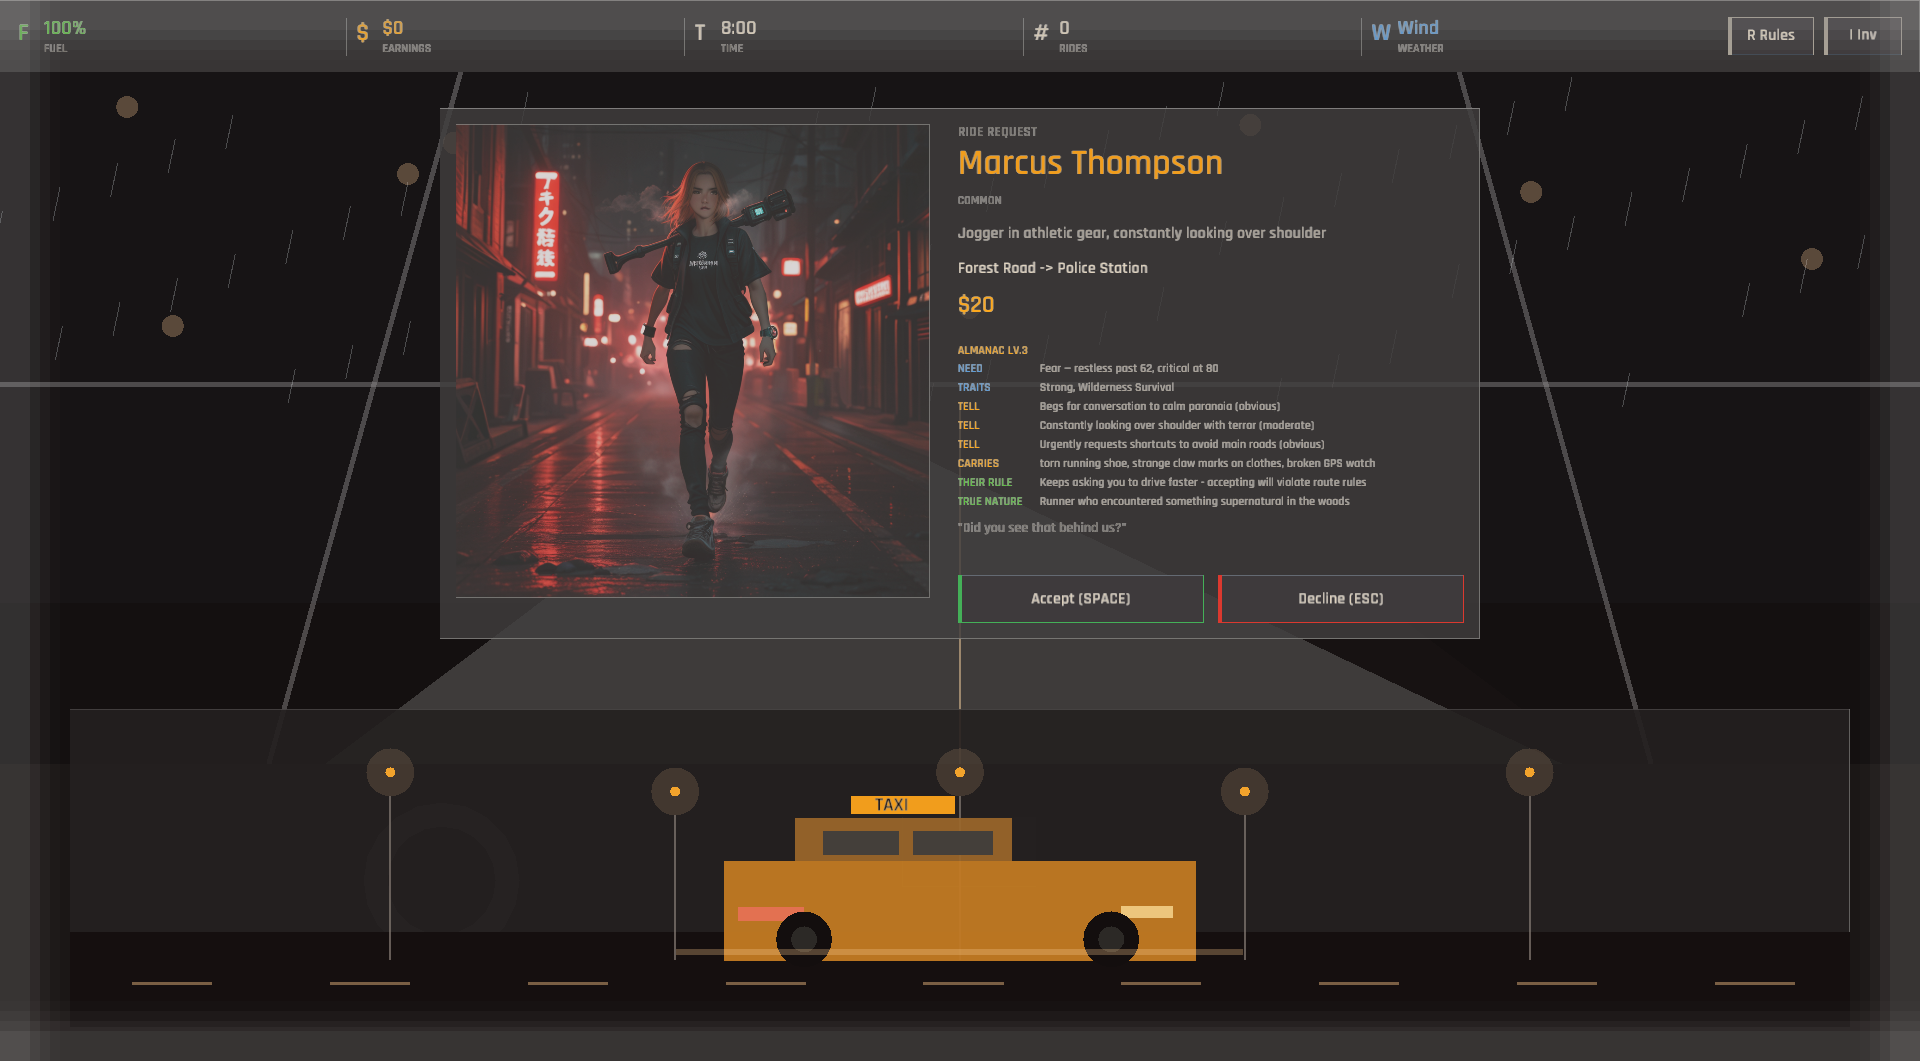
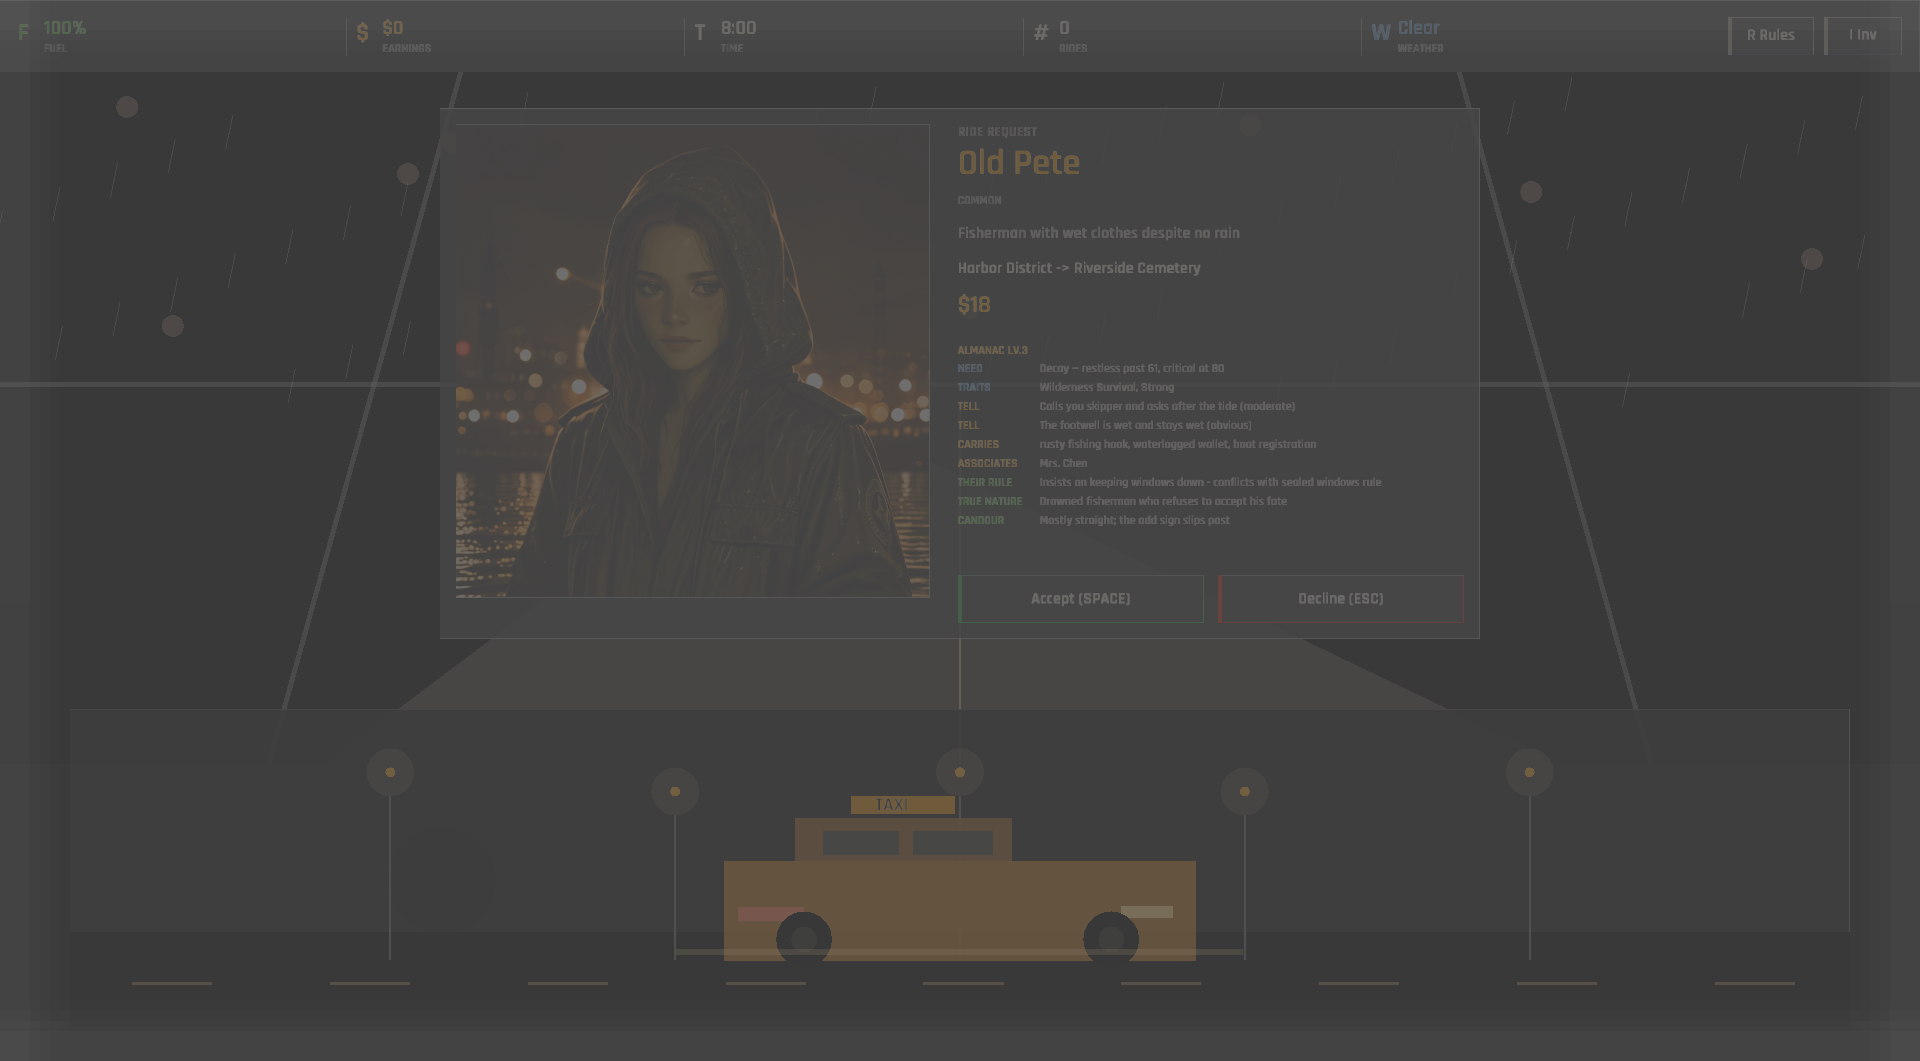
Some fares are better liars than others (wire deceptionLevel and trustRequired into tell detection)
`calculate_detection_probability` weighed a tell's own `reliability`, its
intensity and the driver's standing, and decided whether the guideline
screen labels it "noticed" or "uncertain" — the one piece of information
the Follow-or-Break decision actually rests on. Two authored passenger
fields that belong in that calculation were read by nothing.

`deceptionLevel` is how well a passenger covers what they are, and now
scales the tell down. `trustRequired` is how far they hold a driver at
arm's length before letting anything slip, and below it their tells are
half as likely to land. The Midnight Mayor and Death's Taxi Driver — the
two who never say the whole thing — are now genuinely hard to read, while
Tommy Sullivan, a lost child who hides nothing, gives himself away.

Only eight of sixteen passengers had either field authored, so the other
eight defaulted to perfectly candid regardless of who they were. All
sixteen now carry both, scaled to what each has to hide: The Collector
trades in misdirection at 0.5, Death sits at 0.7, Tommy at zero.

The almanac gains a Candour line at Lv.3, which is the point of wiring
this rather than leaving it as hidden maths. Detection being probabilistic
means a passenger showing no tell is ambiguous — calm, or well covered —
and the dossier now resolves it: "Practised liar; trust the almanac over
your eyes." Studying someone buys you the ability to read their silence.

Three tests: deception must span a real range or the field describes
[…]

diff --git a/src/engine/guideline_engine.rs b/src/engine/guideline_engine.rs
@@ -43,7 +43,8 @@ impl GuidelineEngine {
 
                 // Add detected tells
                 for tell in &exception.tells {
-                    let player_noticed = Self::calculate_detection_probability(tell, player_trust);
+                    let player_noticed =
+                        Self::calculate_detection_probability(tell, passenger, player_trust);
                     detected.push(DetectedTell {
                         tell: tell.clone(),
                         passenger_id: passenger.id,
@@ -176,8 +177,21 @@ impl GuidelineEngine {
         }
     }
 
-    /// Calculate if player notices a tell
-    fn calculate_detection_probability(tell: &PassengerTell, player_trust: f32) -> bool {
+    /// Calculate if the player notices a tell.
+    ///
+    /// Two authored passenger fields feed this and were read by nothing.
+    /// `deceptionLevel` is how well a passenger covers what they are, and
+    /// scales the tell down; `trustRequired` is how much they need to trust
+    /// the driver before they let anything slip at all, and below it their
+    /// tells are much harder to catch. Together they mean the Midnight Mayor
+    /// and Death's Taxi Driver — 0.6 and 0.7 deception — are genuinely hard
+    /// to read, while Tommy Sullivan hides nothing, and that reading anyone
+    /// gets easier as the night earns their trust.
+    fn calculate_detection_probability(
+        tell: &PassengerTell,
+        passenger: &Passenger,
+        player_trust: f32,
+    ) -> bool {
         let base_prob = tell.reliability;
 
         let intensity_mult = match tell.intensity {
@@ -186,7 +200,15 @@ impl GuidelineEngine {
             TellIntensity::Obvious => 1.0,
         };
 
-        let final_prob = base_prob * intensity_mult * (0.5 + player_trust * 0.5);
+        let candour = (1.0 - passenger.deception_level).clamp(0.0, 1.0);
+        let guarded = if player_trust < passenger.trust_required {
+            0.5
+        } else {
+            1.0
+        };
+
+        let final_prob =
+            base_prob * intensity_mult * candour * guarded * (0.5 + player_trust * 0.5);
         macroquad_toolkit::rng::rand() < final_prob
     }
 
@@ -379,6 +401,60 @@ mod tests {
                 passenger.name
             );
         }
+    }
+
+    /// Deception must be a real gradient. If every passenger hides the same
+    /// amount the field may as well not exist, and the almanac's Candour line
+    /// tells the player nothing worth paying for.
+    #[test]
+    fn deception_varies_across_the_roster() {
+        let levels: Vec<f32> = load_passengers()
+            .iter()
+            .map(|p| p.deception_level)
+            .collect();
+        let lowest = levels.iter().cloned().fold(f32::INFINITY, f32::min);
+        let highest = levels.iter().cloned().fold(f32::NEG_INFINITY, f32::max);
+        assert!(
+            highest - lowest > 0.4,
+            "deception spans only {lowest}..{highest}"
+        );
+    }
+
+    /// Nobody may be authored past total deception or total secrecy, which
+    /// would make their tells undetectable however well the player plays.
+    #[test]
+    fn nobody_is_completely_unreadable() {
+        for passenger in load_passengers() {
+            assert!(
+                (0.0..1.0).contains(&passenger.deception_level),
+                "{} has deception {}",
+                passenger.name,
+                passenger.deception_level
+            );
+            assert!(
+                (0.0..=1.0).contains(&passenger.trust_required),
+                "{} requires trust {}",
+                passenger.name,
+                passenger.trust_required
+            );
+        }
+    }
+
+    /// The harder a passenger is to read, the more trust they should want
+    /// first — otherwise the two fields pull against each other and the
+    /// difficulty they describe is incoherent.
+    #[test]
+    fn deception_and_trust_required_agree() {
+        let mut passengers = load_passengers();
+        passengers.sort_by(|a, b| a.deception_level.total_cmp(&b.deception_level));
+        let least = &passengers[0];
+        let most = passengers.last().expect("roster is not empty");
+        assert!(
+            most.trust_required >= least.trust_required,
+            "{} hides most but asks less trust than {}",
+            most.name,
+            least.name
+        );
     }
 
     /// Relief is the only downward pressure on a passenger's need, so a

diff --git a/src/screens/game_screens/dossier.rs b/src/screens/game_screens/dossier.rs
@@ -40,6 +40,17 @@ pub fn need_label(need: NeedType) -> &'static str {
     }
 }
 
+/// Plain description of how much a passenger covers what they are.
+fn candour_label(deception: f32) -> &'static str {
+    match deception {
+        d if d <= 0.05 => "Hides nothing; their tells read true",
+        d if d <= 0.25 => "Mostly straight; the odd sign slips past",
+        d if d <= 0.45 => "Guarded; expect to miss things",
+        d if d <= 0.65 => "Covers well; absence of a tell proves nothing",
+        _ => "Practised liar; trust the almanac over your eyes",
+    }
+}
+
 fn intensity_label(intensity: TellIntensity) -> &'static str {
     match intensity {
         TellIntensity::Subtle => "subtle",
@@ -125,6 +136,14 @@ pub fn build(
                 3,
             ));
         }
+        // How much to trust what you see them do. `deceptionLevel` now scales
+        // tell detection, so knowing it is knowing whether an absent tell
+        // means calm or means well hidden.
+        lines.push(DossierLine::new(
+            "Candour",
+            candour_label(passenger.deception_level).to_string(),
+            3,
+        ));
     }
 
     lines
